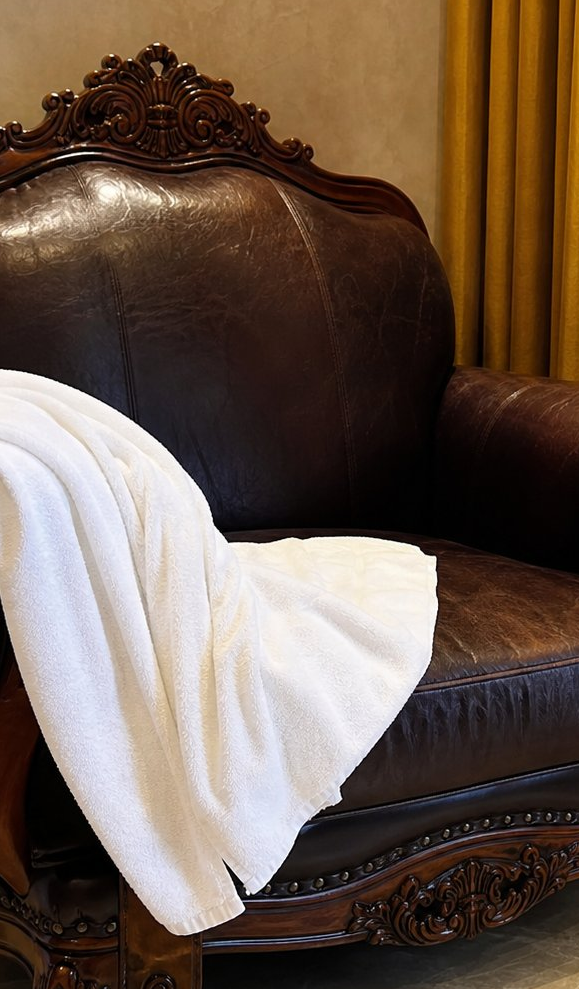
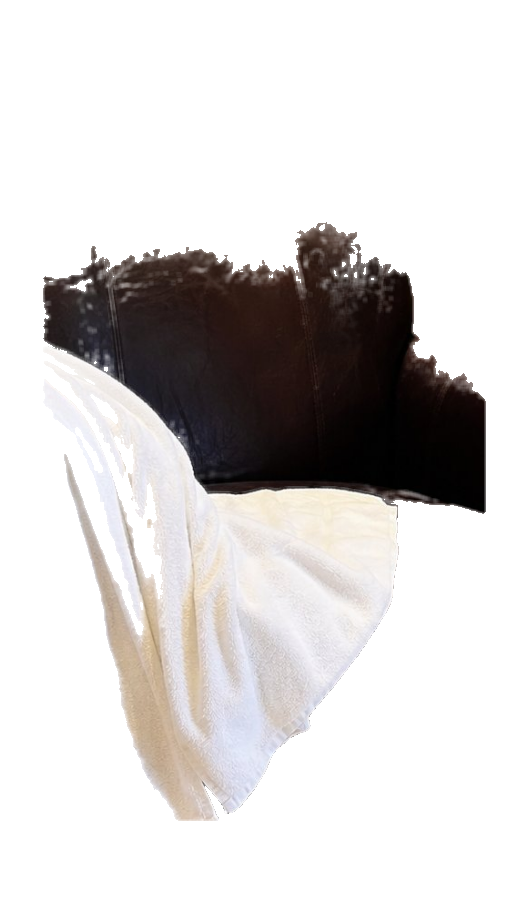
Turn obj_chair.png into a real cutout and register it as an object
The chair was the only room asset that was a flat opaque photo: the
towel and curtain are cutouts with alpha, obj_chair.png had none. That
is why it was never usable as a scene object -- drawing it would paint
an opaque rectangle over everything behind it.

Rather than guess at a background key, this uses the app's own
guidedRectMatting. Candidates were swept and judged without looking at
the image, by measuring the alpha the engine produces:

  want edgeAlpha ~0 (background removed) and centreAlpha ~1 (chair kept)

The winner: edgeAlpha 0.0, centreAlpha 0.992, confidence 0.776. On
disk, alpha mean is now 0.326, in the same family as the towel's 0.389
(the original photo measured 1.0). The original is preserved as
obj_chair_photo.png.

The chair is then registered as char_chair, placed before char_towel
so it composites behind it -- the towel is draped on the armchair.

Recoloring the cutout keeps its shading: luminance SD 98% retained and
p5..p95 held at 5..234. The recolor test now measures 161k pixels
instead of 573k, which is itself confirmation the background is gone.

diff --git a/src/store.ts b/src/store.ts
@@ -133,6 +133,15 @@ export const INITIAL_DEATH_NOTE_CHARACTERS: OmniframeCharacter[] = [
 
 export const INITIAL_ROOM_OBJECTS: OmniframeCharacter[] = [
   {
+    id: 'char_chair',
+    name: 'Leather Armchair',
+    label: 'Detected Object (Chair)',
+    bounds: { x: 0.020, y: 0.180, width: 0.560, height: 0.820 },
+    cutoutUrl: '/assets/room/obj_chair.png',
+    transform: { x: 0, y: 0, scale: 1, rotation: 0, opacity: 1 },
+    scope: 'all',
+  },
+  {
     id: 'char_towel',
     name: 'Draped Armchair Towel',
     label: 'Real Object 1 (White Towel on Armrest)',
